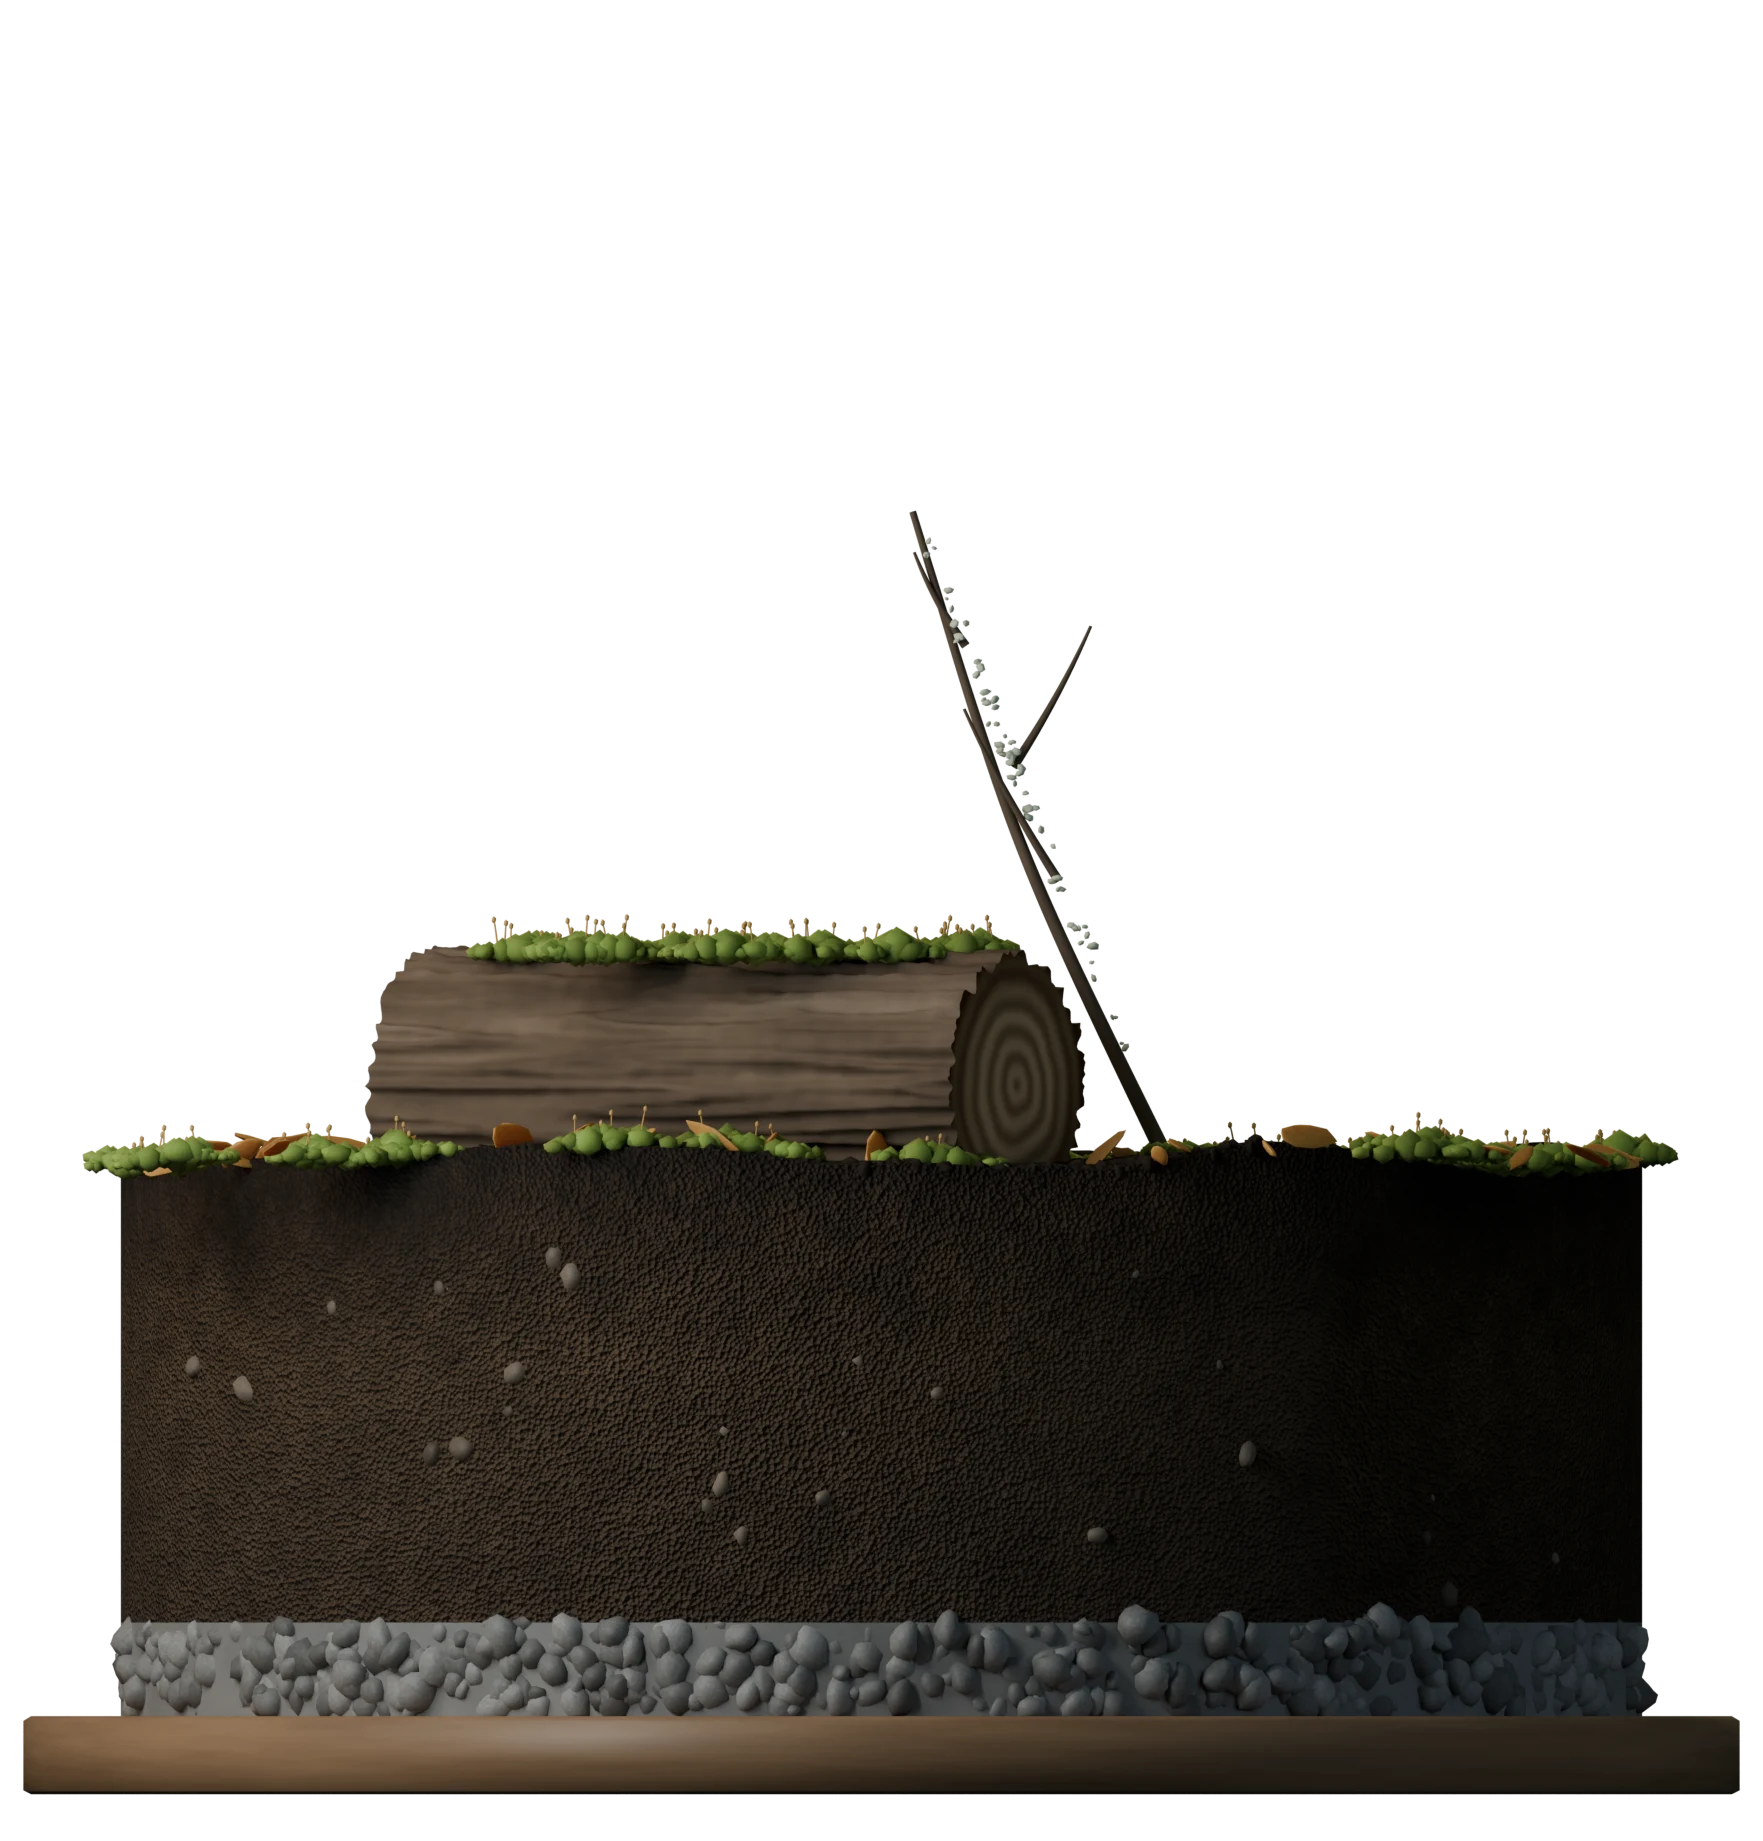
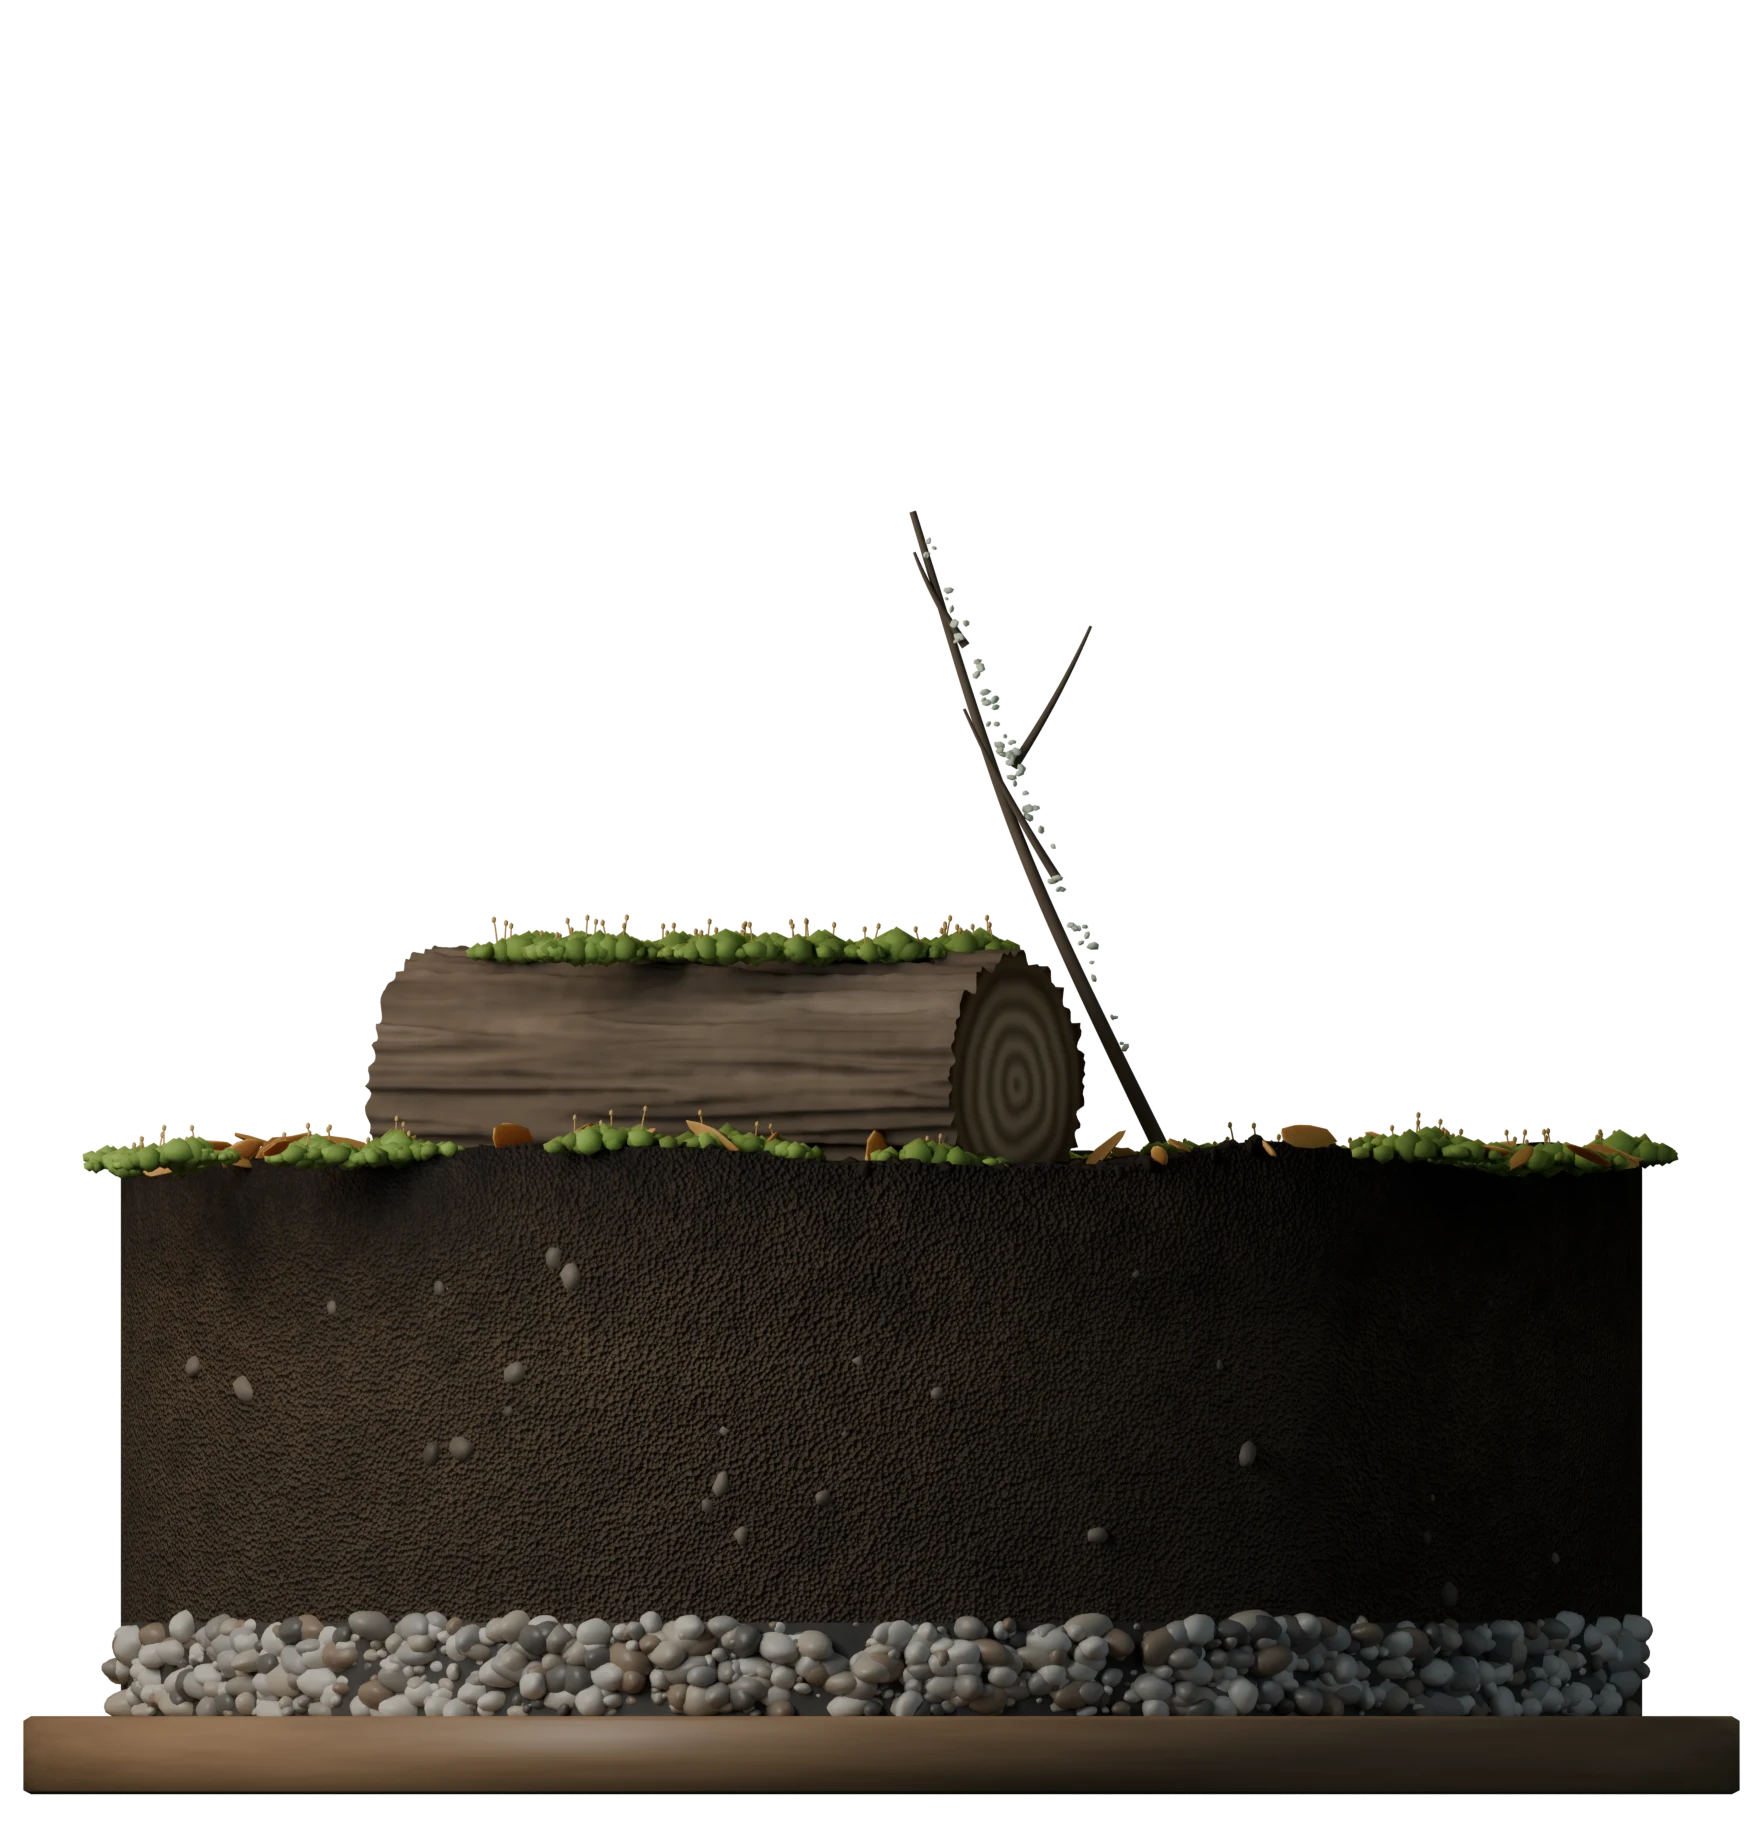
feat(terrarium): river pebbles instead of blobby gravel

Changed region(s): [[0.0624, 0.8669, 0.9359, 0.9598]]

diff --git a/blender/terrarium.py b/blender/terrarium.py
@@ -169,6 +169,49 @@ def textured(name, ramp, scale, rough=0.85, bump=0.4, voronoi=None, stretch=(1, 
     L.new(b.outputs["Normal"], p.inputs["Normal"])
     return m
 
+RIVER = [(0.22, 0.2, 0.18), (0.32, 0.28, 0.23), (0.1, 0.095, 0.09), (0.4, 0.38, 0.35),
+         (0.2, 0.15, 0.11), (0.27, 0.26, 0.25), (0.45, 0.43, 0.39), (0.15, 0.14, 0.13)]
+
+def river_stone():
+    """Rounded river pebbles: each its own color from RIVER, finely speckled,
+    with a little sheen."""
+    m = bpy.data.materials.new("river-stone")
+    m.use_nodes = True
+    N, L = m.node_tree.nodes, m.node_tree.links
+    p = N["Principled BSDF"]
+    p.inputs["Roughness"].default_value = 0.38
+    oi = N.new("ShaderNodeObjectInfo")
+    pick = N.new("ShaderNodeValToRGB")
+    pick.color_ramp.interpolation = "CONSTANT"
+    e = pick.color_ramp.elements
+    e[0].position, e[0].color = 0.0, (*RIVER[0], 1)
+    e[1].position, e[1].color = 1.0, (*RIVER[-1], 1)
+    for k, c in enumerate(RIVER[1:-1], 1):
+        e.new(k / len(RIVER)).color = (*c, 1)
+    L.new(oi.outputs["Random"], pick.inputs["Fac"])
+    tc = N.new("ShaderNodeTexCoord")
+    sp = N.new("ShaderNodeTexNoise")
+    sp.inputs["Scale"].default_value = 160
+    sp.inputs["Detail"].default_value = 4
+    L.new(tc.outputs["Object"], sp.inputs["Vector"])
+    fleck = N.new("ShaderNodeMapRange")
+    fleck.inputs["To Min"].default_value, fleck.inputs["To Max"].default_value = 0.7, 1.25
+    L.new(sp.outputs["Fac"], fleck.inputs["Value"])
+    mul = N.new("ShaderNodeMix")
+    mul.data_type, mul.blend_type = "RGBA", "MULTIPLY"
+    mul.inputs["Factor"].default_value = 1
+    L.new(pick.outputs["Color"], sock(mul.inputs, "A", "RGBA"))
+    gc = N.new("ShaderNodeCombineColor")
+    for i in range(3):
+        L.new(fleck.outputs["Result"], gc.inputs[i])
+    L.new(gc.outputs[0], sock(mul.inputs, "B", "RGBA"))
+    L.new(sock(mul.outputs, "Result", "RGBA"), p.inputs["Base Color"])
+    b = N.new("ShaderNodeBump")
+    b.inputs["Strength"].default_value = 0.08
+    L.new(sp.outputs["Fac"], b.inputs["Height"])
+    L.new(b.outputs["Normal"], p.inputs["Normal"])
+    return m
+
 def soil_material():
     m = bpy.data.materials.new("soil")
     m.use_nodes = True
@@ -242,7 +285,9 @@ def soil_material():
 
 M = {
     "soil": soil_material(),
-    "gravel": textured("gravel", [(0.0, (0.07, 0.075, 0.08)), (0.5, (0.15, 0.155, 0.16)), (1.0, (0.26, 0.26, 0.25))], 6, rough=0.55, bump=0.2, random_tint=0.45),
+    # the gravel bed is only seen in the gaps between the stones
+    "gravel": textured("gravel", [(0.0, (0.02, 0.02, 0.02)), (1.0, (0.07, 0.065, 0.06))], 40, rough=0.7, bump=0.3),
+    "stone": river_stone(),
     "pebble": textured("pebble", [(0.0, (0.05, 0.04, 0.03)), (1.0, (0.16, 0.13, 0.1))], 8, rough=0.6, bump=0.2, random_tint=0.4),
     "bark": textured("bark", [(0.0, (0.012, 0.008, 0.005)), (0.45, (0.05, 0.034, 0.022)), (0.75, (0.1, 0.07, 0.048)), (1.0, (0.17, 0.13, 0.095))], 9, stretch=(0.2, 1, 1), voronoi=20, bump=1.0),
     "base": textured("base", [(0.0, (0.12, 0.07, 0.04)), (1.0, (0.3, 0.19, 0.11))], 3, stretch=(1, 1, 12), rough=0.45, bump=0.15),
@@ -435,12 +480,20 @@ for i in range(140):
 
 # gravel bed and stones against the glass
 lathe("gravel-bed", [(SOIL_R, 0.0), (SOIL_R, GRAVEL)], 120, M["gravel"])
-for i in range(520):
-    x = rnd(-0.97, 0.97)
-    y = -math.sqrt(max(0.0, SOIL_R ** 2 - x * x)) + rnd(0.0, 0.03)
-    s = rnd(0.014, 0.032)
-    blob(f"stone{i}", M["gravel"], (x, y, rnd(0.008, GRAVEL - 0.004)), (s, s * rnd(0.7, 1.0), s * rnd(0.6, 0.9)),
-         (rnd(0, 3), rnd(0, 3), rnd(0, 3)), subdiv=2, rough=0.3, seed=i)
+# river pebbles against the glass: rounded and flattish, mostly small with a
+# few big ones, in two layers so the gaps show more stones rather than bed.
+# They draw from their own generator; the shared one is advanced as the old
+# 520-stone loop did, so everything placed after keeps its position.
+srng = random.Random(11)
+for _ in range(520 * 9):
+    rng.random()
+for i in range(1400):
+    x = srng.uniform(-0.97, 0.97)
+    y = -math.sqrt(max(0.0, SOIL_R ** 2 - x * x)) + (srng.uniform(0.0, 0.012) if i % 3 else srng.uniform(0.012, 0.035))
+    s = 0.008 + 0.026 * srng.random() ** 2.2
+    blob(f"stone{i}", M["stone"], (x, y, srng.uniform(0.004, GRAVEL - 0.003)),
+         (s * srng.uniform(1.0, 1.35), s * srng.uniform(0.6, 0.9), s * srng.uniform(0.55, 0.8)),
+         (srng.uniform(-0.3, 0.3), srng.uniform(-0.3, 0.3), srng.uniform(0, 3)), subdiv=3, rough=0.1, seed=i)
 # a few pebbles in the soil, against the glass
 for i in range(30):
     x = rnd(-0.95, 0.95)
